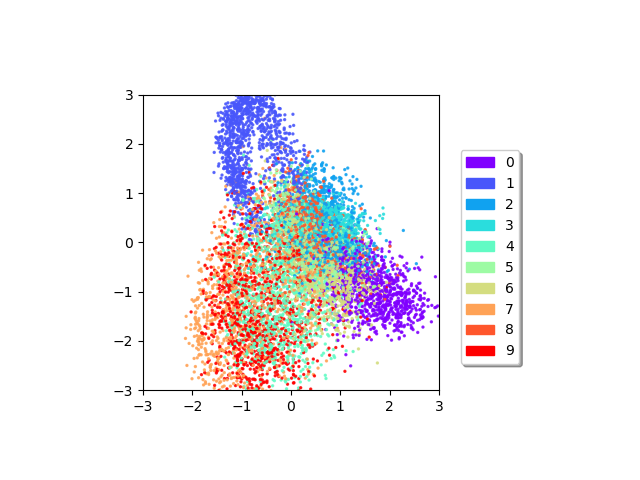
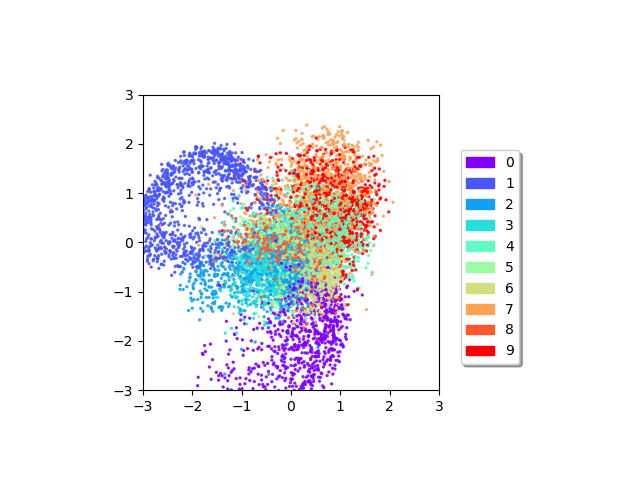
Finished Semi Supervsied AAE Model

Changed region(s): [[0.2188, 0.1875, 0.6875, 0.8125]]

diff --git a/lib/models.py b/lib/models.py
@@ -36,6 +36,7 @@ class UnsupervisedDeterministic:
         x = tf.keras.layers.Dense(self.h_dim)(x)
         x = tf.keras.layers.LeakyReLU()(x)
         x = tf.keras.layers.Dropout(0.5)(x)
+        # Output Codelayer Z --> Verteilung q(z)
         encoded = tf.keras.layers.Dense(self.z_dim)(x)
         model = tf.keras.Model(inputs=inputs, outputs=encoded)
         return model
@@ -49,6 +50,7 @@ class UnsupervisedDeterministic:
         x = tf.keras.layers.Dense(self.h_dim)(x)
         x = tf.keras.layers.LeakyReLU()(x)
         x = tf.keras.layers.Dropout(0.5)(x)
+        # Output Erzeugtes Bild
         reconstruction = tf.keras.layers.Dense(self.image_size, activation='sigmoid')(x)
         model = tf.keras.Model(inputs=encoded, outputs=reconstruction)
         return model
@@ -62,6 +64,7 @@ class UnsupervisedDeterministic:
         x = tf.keras.layers.Dense(self.h_dim)(x)
         x = tf.keras.layers.LeakyReLU()(x)
         x = tf.keras.layers.Dropout(0.5)(x)
+        # Ein Wert wird hier  zurückgegeben
         prediction = tf.keras.layers.Dense(1)(x)
         model = tf.keras.Model(inputs=encoded, outputs=prediction)
         return model
@@ -116,18 +119,22 @@ class SupervisedDeterministic:
 
 
 class SemiSupervisedDeterministic:
+    # Parameters
     def __init__(self):
         self.image_size = 784
         self.h_dim = 1000
         self.z_dim = 2
         self.n_labels = 10
 
+        # Createing the Modelparts of the Semi Supervised AAE
         self.encoder = self.create_encoder_semi()
         self.decoder = self.create_decoder_semi()
         self.discriminator_label = self.create_discriminator_label()
         self.discriminator_style = self.create_discriminator_style()
 
+    # Function to create the encoder
     def create_encoder_semi(self):
+        # Input is the Data x (image)
         inputs = tf.keras.Input(shape=(self.image_size,))
         x = tf.keras.layers.Dense(self.h_dim)(inputs)
         x = tf.keras.layers.LeakyReLU()(x)
@@ -135,12 +142,17 @@ class SemiSupervisedDeterministic:
         x = tf.keras.layers.Dense(self.h_dim)(x)
         x = tf.keras.layers.LeakyReLU()(x)
         x = tf.keras.layers.Dropout(0.5)(x)
+
+        # 2 Outputs
+        # Output Style variable z for reconstruction of the input
         encoded = tf.keras.layers.Dense(self.z_dim)(x)
-        generated_labels = tf.keras.layers.Dense(self.n_labels)(x)
-        model = tf.keras.Model(inputs=inputs, outputs=encoded)
-        return model, generated_labels
+        # Output of the labels with a softmax Cat(y)
+        encoded_labels = tf.keras.layers.Softmax(self.n_labels)(x)
+        model = tf.keras.Model(inputs=inputs, outputs=(encoded, encoded_labels))
+        return model
 
     def create_decoder_semi(self):
+        # Input for decoder is the style variable z (encoded) and the encoded_labels form the Encoder
         encoded = tf.keras.Input(shape=(self.z_dim + self.n_labels,))
         x = tf.keras.layers.Dense(self.h_dim)(encoded)
         x = tf.keras.layers.LeakyReLU()(x)
@@ -149,6 +161,7 @@ class SemiSupervisedDeterministic:
         x = tf.keras.layers.LeakyReLU()(x)
         x = tf.keras.layers.Dropout(0.5)(x)
         reconstruction = tf.keras.layers.Dense(self.image_size, activation='sigmoid')(x)
+        # Output of the Model is
         model = tf.keras.Model(inputs=encoded, outputs=reconstruction)
         return model
 

diff --git a/semisupervised_aae_deterministic.py b/semisupervised_aae_deterministic.py
@@ -89,14 +89,19 @@ dc_optimizer = tf.keras.optimizers.Adam(lr=base_lr)
 gen_optimizer = tf.keras.optimizers.Adam(lr=base_lr)
 
 n_epochs = 601
-
+n_labels = 10
 # Training
 @tf.function
-def train_step(batch_x):
+def train_step(batch_x, batch_y):
     # Autoencoder
+    # Reconstruction phase
     with tf.GradientTape() as ae_tape:
-        encoder_output = encoder(batch_x, training=True)
-        decoder_output = decoder(encoder_output, training=True)
+        # Output of encoder is z and y
+        encoder_output, generated_labels = encoder(batch_x, training=True)
+        # Could be splittet in:
+            # decouter_input = tf.concat([encoder_output, generated_labels], axis=1)
+            # decoder_output = decoder(decoder_input)
+        decoder_output = decoder(tf.concat([encoder_output, generated_labels], axis=1), training=True)
 
         # Autoencoder loss
         ae_loss = autoencoder_loss(batch_x, decoder_output, ae_loss_weight)
@@ -104,12 +109,12 @@ def train_step(batch_x):
     ae_grads = ae_tape.gradient(ae_loss, encoder.trainable_variables + decoder.trainable_variables)
     ae_optimizer.apply_gradients(zip(ae_grads, encoder.trainable_variables + decoder.trainable_variables))
 
-    # Discriminator
+    # Discriminator Style
     with tf.GradientTape() as dc_tape:
-        real_distribution = tf.random.normal([batch_x.shape[0], aae.z_dim], mean=0.0, stddev=1.0)
+        real_distribution_z = tf.random.normal([batch_x.shape[0], aae.z_dim], mean=0.0, stddev=1.0)
         encoder_output = encoder(batch_x, training=True)
 
-        dc_real = discriminator_style(real_distribution, training=True)
+        dc_real = discriminator_style(real_distribution_z, training=True)
         dc_fake = discriminator_style(encoder_output, training=True)
 
         # Discriminator Loss
@@ -121,6 +126,24 @@ def train_step(batch_x):
 
     dc_grads = dc_tape.gradient(dc_loss, discriminator_style.trainable_variables)
     dc_optimizer.apply_gradients(zip(dc_grads, discriminator_style.trainable_variables))
+
+    # Discriminator Labels
+    with tf.GradientTape() as dc_tape:
+        real_distribution_y = np.random.randint(low=0, high=np.shape(mnist.y_train)[0], size=batch_size)
+        encoder_output = encoder(batch_y, training=True)
+
+        dc_real = discriminator_labels(real_distribution_y, training=True)
+        dc_fake = discriminator_labels(encoder_output, training=True)
+
+        # Discriminator loss
+        dc_loss = discriminator_loss([dc_real, dc_fake], axis=0)
+
+        # Discriminator ACC
+        dc_acc = accuracy(tf.concat([tf.ones_like(dc_real), tf.zeros_like(dc_fake)], axis=0),
+                          tf.concat([dc_real, dc_fake], axis=0))
+
+        dc_grads = dc_tape.gradient(dc_loss, discriminator_labels.trainable_variables)
+        dc_optimizer.apply_gradients(zip(dc_grads, discriminator_labels.trainable_variables))
 
     # Generator (Encoder)
     with tf.GradientTape() as gen_tape:
